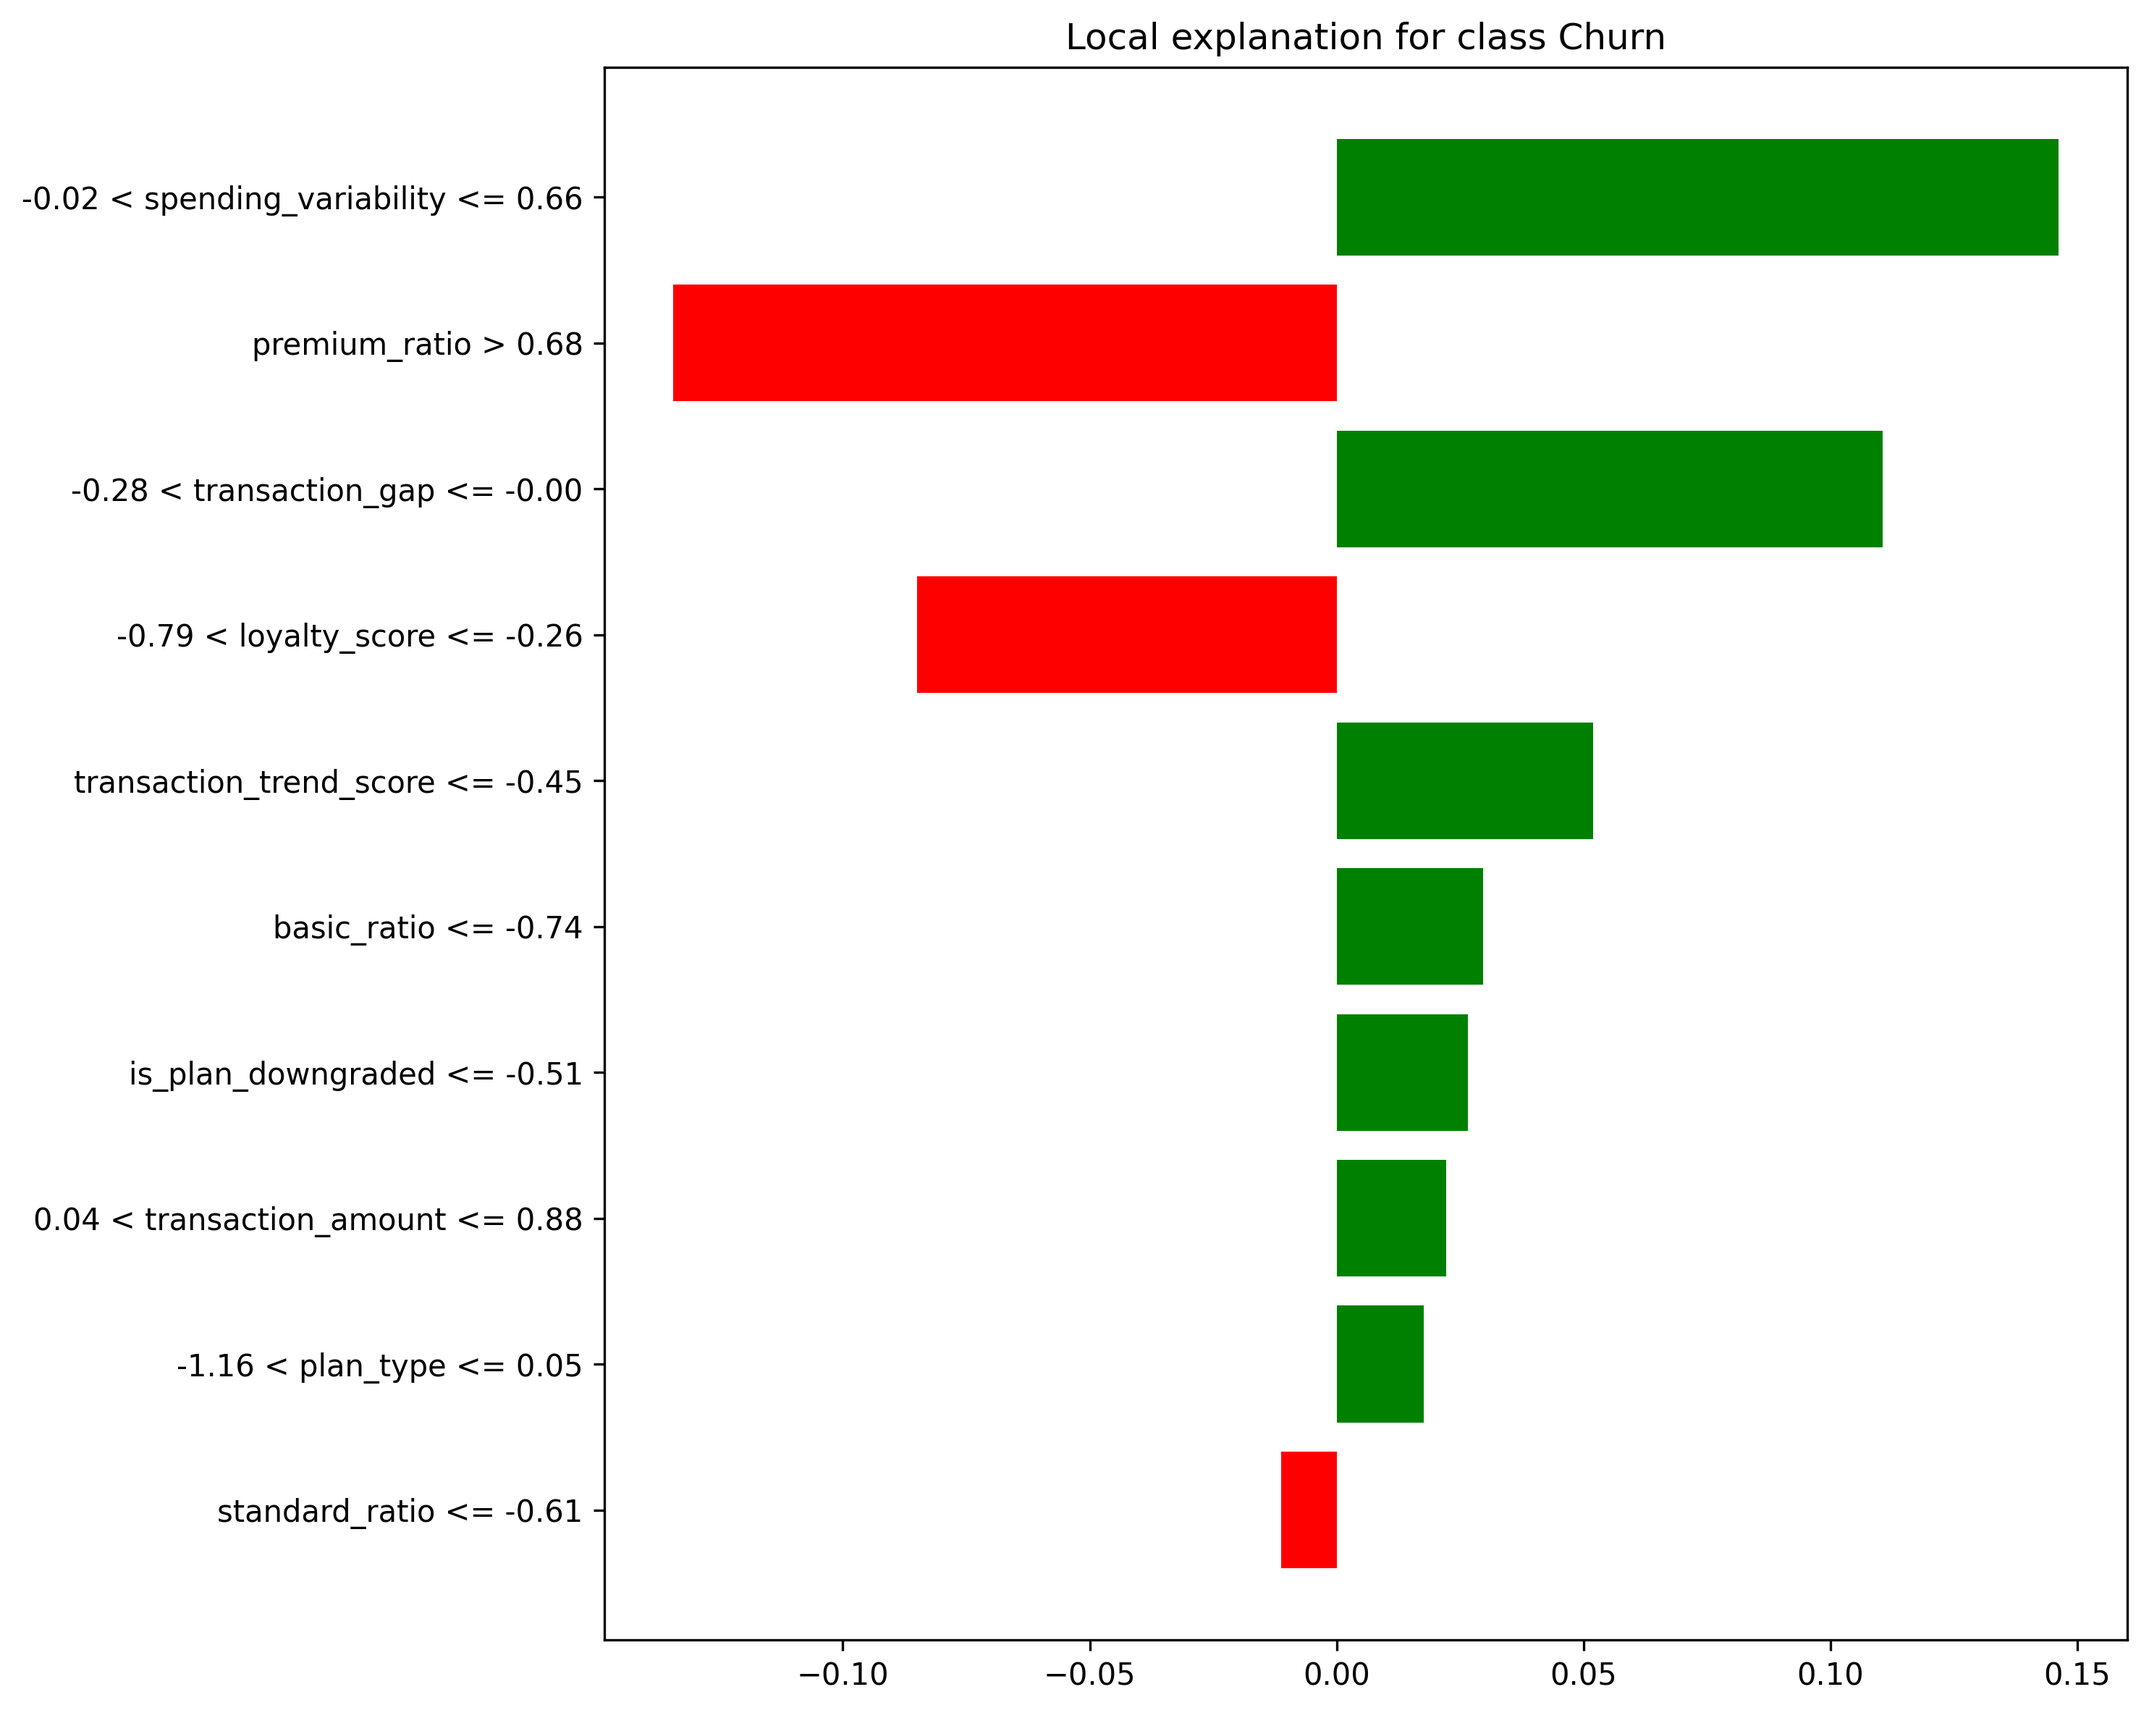
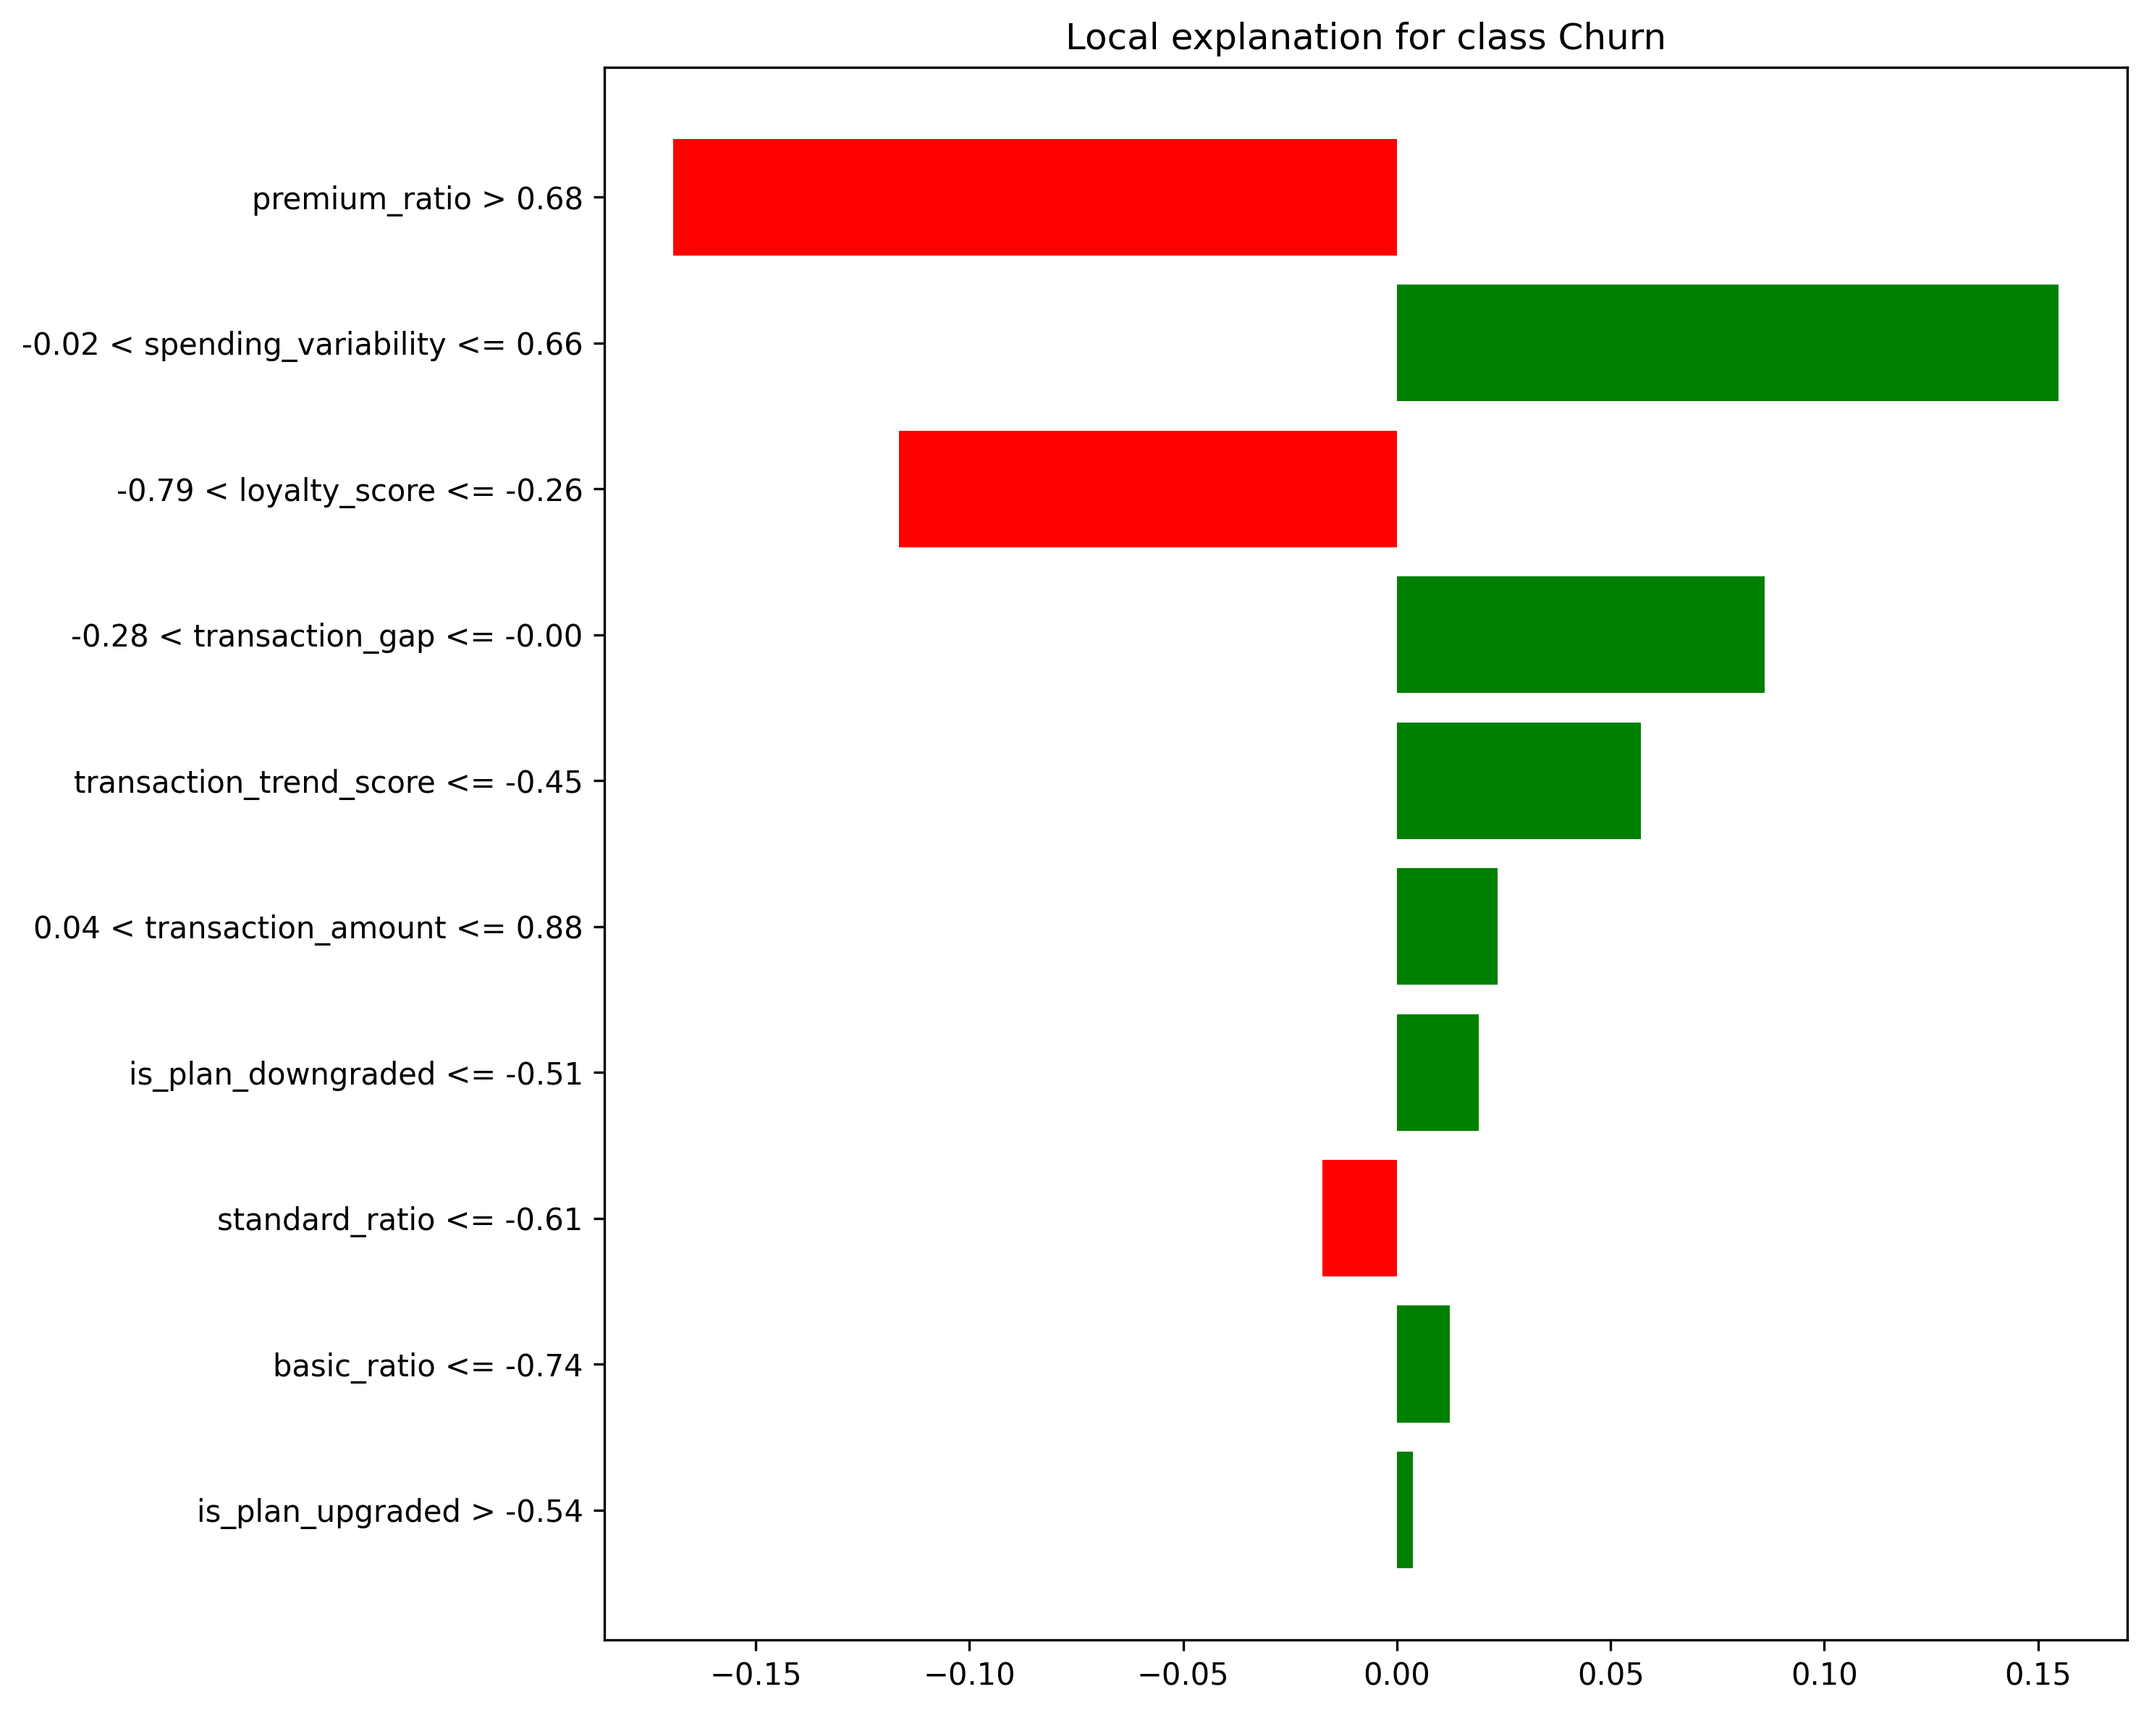
feat: customer-churn-classification using time dependant features - data preprocessing for missing values - extracted time dependent fetures - enriched data with economic indicator features - model training - model evaluation - model explanation with LIME

diff --git a/src/train.py b/src/train.py
@@ -7,9 +7,34 @@ from sklearn.model_selection import train_test_split
 from sklearn.preprocessing import StandardScaler, LabelEncoder
 from sklearn.impute import SimpleImputer
 from xgboost import XGBClassifier
-from evaluate import evaluate_model
 
-from explain import generate_lime_explanation
+"""
+Machine Learning Pipeline for Churn Prediction
+This script implements a complete machine learning pipeline to train an XGBoost model for predicting customer churn.
+
+Key functionalities:
+1. Data Loading:
+   - Loads the preprocessed dataset from a CSV file.
+2. Data Preprocessing:
+   - Drops irrelevant columns (e.g., customer ID, dates, first/last transactions, first/last plans).
+   - Encodes categorical features using `LabelEncoder`.
+   - Handles missing values by imputing with the mean.
+3. Data Splitting and Scaling:
+   - Splits data into training and test sets (80/20 split).
+   - Standardizes numerical features using `StandardScaler`.
+   - Saves the scaler for future use.
+4. Model Training:
+   - Trains an `XGBClassifier` on the processed data.
+   - Uses `logloss` as the evaluation metric.
+5. Model Saving:
+   - Saves the trained XGBoost model in JSON format.
+   - Saves label encoders for categorical features.
+6. Execution Pipeline:
+   - The train_pipeline function integrates all the steps and saves the required components for future inference.
+
+Usage:
+Call `train_pipeline(models_dir, preprocessed_features, results_dir)` to execute the full pipeline.
+"""
 
 def load_data(file_path):
     """Load the preprocessed dataset."""
@@ -70,17 +95,10 @@ def train_pipeline(models_dir, preprocessed_features, results_dir):
     df, label_encoders = preprocess_data(df)
     X_train_scaled, X_test_scaled, y_train, y_test, feature_names = split_and_scale_data(df, models_dir)
 
-    print("Training XGBoost model...")
     model = train_xgboost(X_train_scaled, y_train)
-
-    print("Evaluating XGBoost model...")
-    evaluate_model(model, X_test_scaled, y_test, results_dir)
 
     print("Saving XGBoost model and label encoders...")
     save_xgboost_model(model, models_dir)
     save_label_encoders(label_encoders, models_dir)
 
-    print("Generating LIME explanation...")
-    generate_lime_explanation(model, X_train_scaled, X_test_scaled, feature_names, results_dir)
-
-    print("All tasks completed successfully!")
+    return model, X_test_scaled, y_test, results_dir, X_train_scaled, feature_names

diff --git a/src/feature_engineering.py b/src/feature_engineering.py
@@ -1,12 +1,34 @@
 import pandas as pd
 
+"""
+Feature Engineering and Feature Selection for Churn Prediction
+
+This script further processes an engineered dataset by creating additional derived features and selecting relevant columns for model training.
+
+Key functionalities:
+1. Data Loading:
+   - Loads the engineered dataset from a CSV file.
+2. Feature Engineering:
+   - Computes `transaction_gap`: Ratio of days since last transaction to customer tenure.
+   - Computes `spending_variability`: Standard deviation of transactions divided by the mean transaction amount.
+   - Computes `loyalty_score`: A heuristic score based on customer tenure, cumulative transactions, and plan switches.
+   - Flags `high_churn_risk`: Identifies customers inactive for more than 2 months.
+   - Computes `transaction_trend_score`: Difference between 3-month and 6-month rolling transaction averages to identify trends.
+3. Feature Selection:
+   - Retains only relevant features for churn modeling.
+4. Data Saving:
+   - Saves the processed dataset to a CSV file.
+Usage:
+Call `feature_engineering(engineered_features, preprocessed_features)` to process a dataset and save the output.
+"""
+
 
 def load_data(file_path):
     """Load the engineered dataset."""
     return pd.read_csv(file_path)
 
 
-def feature_engineering(df):
+def engineer_features(df):
     """Perform feature engineering on the dataset."""
     df["transaction_gap"] = df["days_since_last_txn"] / df["customer_tenure_days"]
     df["spending_variability"] = df["std_transaction_amount"] / df["avg_transaction_amount"]
@@ -44,9 +66,9 @@ def save_preprocessed_data(df, output_path):
     print("Feature extraction complete.")
 
 
-def preprocess_features(engineered_features, preprocessed_features):
+def feature_engineering(preprocessed_features, engineered_features):
     """Main function to run the feature extraction pipeline."""
-    df = load_data(engineered_features)
-    df = feature_engineering(df)
+    df = load_data(preprocessed_features)
+    df = engineer_features(df)
     df_selected = select_relevant_features(df)
-    save_preprocessed_data(df_selected, preprocessed_features)
+    save_preprocessed_data(df_selected, engineered_features)

diff --git a/src/main.py b/src/main.py
@@ -6,17 +6,35 @@ import numpy as np
 import joblib
 import xgboost as xgb
 import os
-from config import MODELS, PREPROCESSED_FEATURES, RESULTS, TRAINING_DATASET, ENGINEERED_FEATURES, ENGINEERED_FEATURES, PREPROCESSED_FEATURES
-from data_engineering import data_engineering
-from final_preprocess_features import preprocess_features
+from config import MODELS, PREPROCESSED_DATA, RESULTS, TRAINING_DATASET, ENGINEERED_FEATURE
 from train import train_pipeline
 import lime.lime_tabular
 import matplotlib.pyplot as plt
+from feature_engineering import feature_engineering
+from preprocessing import data_preperocessing
+from evaluate import evaluate_model
+from explain import generate_lime_explanation
 
-data_engineering(TRAINING_DATASET, ENGINEERED_FEATURES)
-preprocess_features(ENGINEERED_FEATURES, PREPROCESSED_FEATURES)
-train_pipeline(MODELS, PREPROCESSED_FEATURES, RESULTS)
+"""
+This script executes the full machine learning pipeline for customer churn prediction.
+It involves data preprocessing, feature engineering, model training, evaluation, and model explanation using LIME.
 
+Steps:
+1. Data Preprocessing: Cleans and prepares the training dataset.
+2. Feature Engineering: Creates relevant features to improve model performance.
+3. Model Training: Trains an XGBoost model on the processed dataset.
+4. Model Evaluation: Assesses model performance using test data.
+5. Model Explanation: Uses LIME to explain the model's predictions.
+6. Making Predictions: Loads the trained model and scaler to predict customer churn.
+7. Generating LIME Explanation: Visualizes feature importance for a sample prediction.
+"""
+
+
+data_preperocessing(TRAINING_DATASET, PREPROCESSED_DATA)
+feature_engineering(PREPROCESSED_DATA, ENGINEERED_FEATURE)
+model, X_test_scaled, y_test, results_dir, X_train_scaled, feature_names = train_pipeline(MODELS, ENGINEERED_FEATURE, RESULTS)
+evaluate_model(model, X_test_scaled, y_test, results_dir)
+generate_lime_explanation(model, X_train_scaled, X_test_scaled, feature_names, results_dir)
 
 
 # Load the trained scaler

diff --git a/src/preprocessing.py b/src/preprocessing.py
@@ -1,6 +1,32 @@
 import pandas as pd
 import numpy as np
 
+"""
+Feature Engineering for Customer Transaction Data
+This script performs feature engineering on customer transaction data to support churn prediction and behavioral analysis.
+
+Key functionalities:
+1. Data Loading & Sorting:
+   - Loads data from a CSV file.
+   - Sorts data by customer ID and date for sequential processing.
+2. Missing Value Handling:
+   - Fills missing transaction amounts using the mean transaction value per customer.
+   - Replaces missing plan types with the most frequent plan per customer.
+3. Transaction Statistics:
+   - Computes tenure, transaction count, mean, standard deviation, and min/max transaction amounts.
+4. Time-Based Features:
+   - Computes lagged transaction amounts, transaction trends, inactive months, and days since the last transaction.
+5. Rolling Features:
+   - Computes rolling averages for transaction amounts over 3-month and 6-month periods.
+6. Plan-Based Features:
+   - Identifies first and last plan types, counts plan switches, and calculates upgrade/downgrade indicators.
+7. Transaction Level Assignment:
+   - Categorizes cumulative transaction amounts into predefined levels.
+8. Data Saving:
+   - Saves the engineered dataset to a CSV file.
+Usage:
+Call `data_preperocessing(training_dataset, engineered_features)` to process a dataset and save the output.
+"""
 
 def load_and_sort_data(filepath: str) -> pd.DataFrame:
     """Load dataset and sort by customer_id and date."""
@@ -87,7 +113,7 @@ def save_dataset(df: pd.DataFrame, filepath: str):
     print(f"Feature engineering complete. Saved to {filepath}")
 
 
-def data_engineering(training_dataset: str, engineered_features: str):
+def data_preperocessing(training_dataset: str, engineered_features: str):
     df = load_and_sort_data(training_dataset)
     df = fill_missing_values(df)
     df = transactions_statistics(df)

diff --git a/src/config.py b/src/config.py
@@ -4,7 +4,7 @@ from dotenv import load_dotenv
 load_dotenv()
 
 TRAINING_DATASET = os.getenv("TRAINING_DATASET")
-ENGINEERED_FEATURES = os.getenv("ENGINEERED_FEATURES")
+PREPROCESSED_DATA = os.getenv("PREPROCESSED_DATA")
 MODELS = os.getenv("MODELS")
-PREPROCESSED_FEATURES = os.getenv("PREPROCESSED_FEATURES")
+ENGINEERED_FEATURE = os.getenv("ENGINEERED_FEATURE")
 RESULTS = os.getenv("RESULTS")

diff --git a/README.md b/README.md
@@ -1,4 +1,4 @@
-# atiDot_churnPrediction
+# customer-churn-classification
 
 ## Predicting Customer Churn Using Time-Series Data
 
@@ -13,12 +13,14 @@
 
 ## Steps to Use the Repository
 
-1. **Update the environment file**: Rename `ENV.txt` to `.env`.
+1. **Update the environment file**: Rename `.env.local` to `.env`.
 2. **Modify paths**: Update file and folder paths in the `.env` file according to your system.
 3. **Run the pipeline**: Execute `main.py` to initiate the full pipeline, which includes:
-   - `data_engineering.py`: Generates initial features.
-   - `final_preprocess_features.py`: Creates more refined features and selects important ones.
+   - `preprocessing.py`: Cleans data and Generates initial features.
+   - `feature_engineering.py`: Creates more refined features and selects important ones.
    - `train.py`: Trains models and analyzes results.
+   - `evaluate.py`: evaluates the model performance and save the values and images.
+   - `explain.py`: Gives the LIME explaination of model
 
 ---
 
@@ -30,7 +32,7 @@ Build a robust **classification model** to predict **customer churn** between **
 
 ## Approach Taken
 
-### 1. Data Engineering
+### 1. Data Preprocessing
 
 - **Preprocessing**: Loads and sorts transaction records chronologically.
 - **Handling Missing Values**:
@@ -45,7 +47,7 @@ Build a robust **classification model** to predict **customer churn** between **
 
 ---
 
-### 2. Feature Processing & Selection
+### 2. Feature Engineering & Selection
 
 - Computes additional features for **customer transaction behavior analysis**.
 - Retains only the most relevant columns for **better model performance**.
